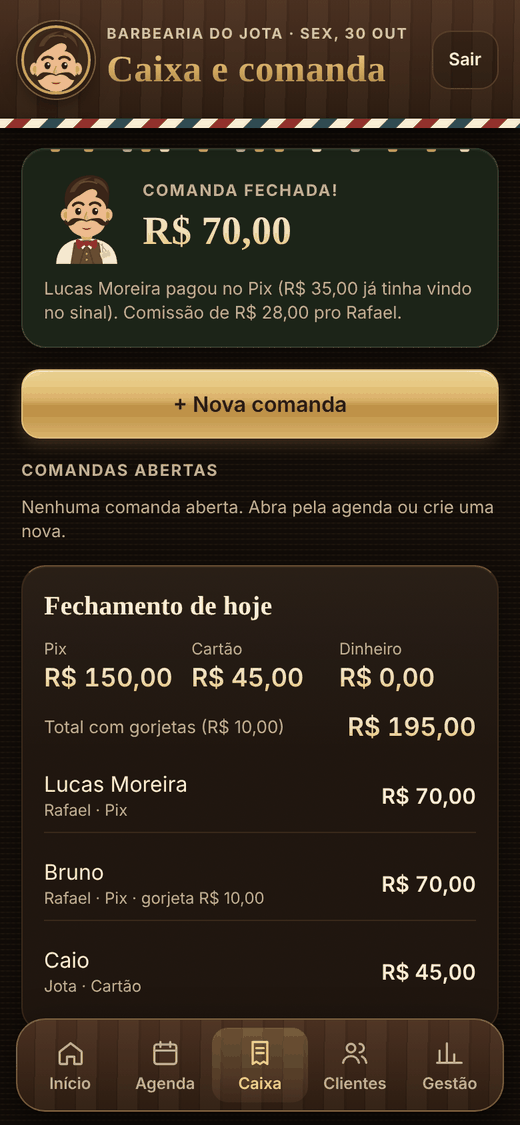
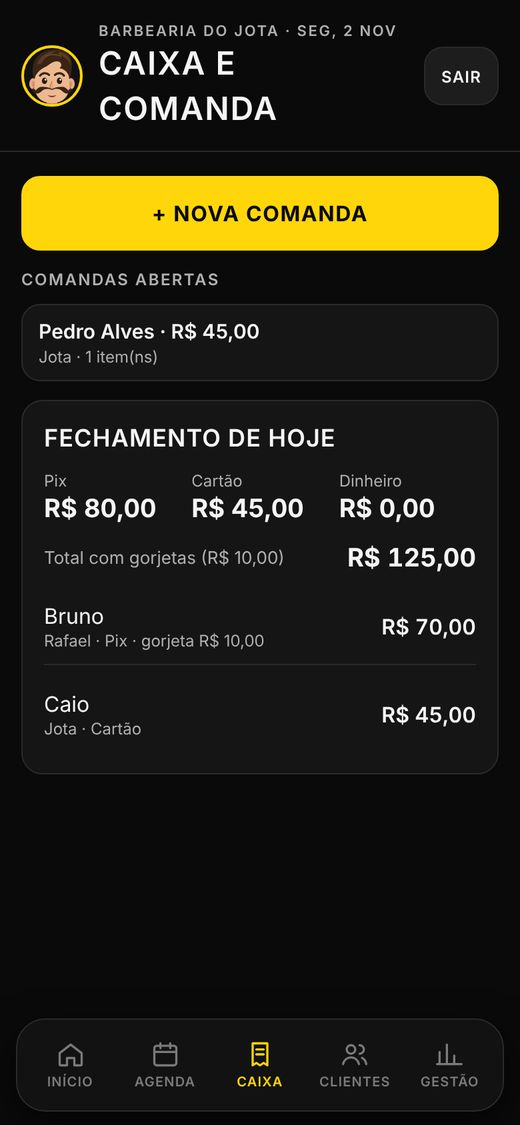
README atualizado: Degradê, design v2, fotos novas das telas e tudo que mudou
- Banner e as 12 fotos das telas refeitos no design novo
- Seções novas: Visual, Entrada, Termos e privacidade, Histórico de mudanças
- Vários serviços, lembretes, fotos dos trabalhos, tema claro, manter conectado, barbeiro só com a própria agenda
- Sai Estoque e Despesas; próximos passos atualizados

Claude-Session: https://claude.ai/code/session_017CedPEMr8KfJc6Ej25PCfh

diff --git a/README.md b/README.md
@@ -3,16 +3,16 @@
 </p>
 
 <p align="center">
-  <img alt="Aplicativo web instalável" src="https://img.shields.io/badge/app-instal%C3%A1vel%20no%20celular-C9A35B?style=flat-square">
-  <img alt="Pagamento Pix" src="https://img.shields.io/badge/sinal-Pix-32BCAD?style=flat-square">
+  <img alt="Aplicativo web instalável" src="https://img.shields.io/badge/app-instal%C3%A1vel%20no%20celular-FFD60A?style=flat-square&labelColor=0A0A0A">
+  <img alt="Pix e cartão" src="https://img.shields.io/badge/sinal-Pix%20e%20cart%C3%A3o-32BCAD?style=flat-square">
   <img alt="Banco de dados Supabase" src="https://img.shields.io/badge/dados-Supabase-3ECF8E?style=flat-square">
   <img alt="Hospedagem Vercel" src="https://img.shields.io/badge/no%20ar-Vercel-111111?style=flat-square">
   <img alt="Feito no Brasil" src="https://img.shields.io/badge/feito%20no-Brasil-009C3B?style=flat-square">
 </p>
 
 <p align="center">
-  <b>O sistema completo pra barbearia:</b> o cliente agenda pelo link, paga o sinal no Pix,<br>
-  o barbeiro atende com a ficha na mão e o dono vê quanto entrou, quanto saiu e quanto foi pra equipe.
+  <b>O sistema completo pra barbearia:</b> o cliente agenda pelo link e paga o sinal no Pix ou no cartão,<br>
+  o barbeiro atende com a ficha na mão e o dono vê quanto entrou e quanto foi pra equipe.
 </p>
 
 ---
@@ -20,11 +20,13 @@
 ## Sumário
 
 - [O que é](#o-que-é)
+- [Visual](#visual)
 - [Telas](#telas)
 - [Funcionalidades](#funcionalidades)
 - [Como funciona](#como-funciona)
 - [Segurança e privacidade](#segurança-e-privacidade)
 - [Tecnologia](#tecnologia)
+- [Histórico de mudanças](#histórico-de-mudanças)
 - [Próximos passos](#próximos-passos)
 
 ---
@@ -38,10 +40,22 @@ São três aplicativos em um:
 | | Pra quem | O que faz |
 |---|---|---|
 | **Painel da barbearia** | Dono e barbeiros | Agenda, caixa, comissões, clientes, horários e configurações |
-| **Página de agendamento** | Cliente final | Escolhe serviço, barbeiro, dia e hora, e paga o sinal no Pix ou no cartão. Sem precisar de conta |
-| **Painel do administrador** | Dono do sistema | Todas as barbearias assinantes, mensalidades, testes grátis e bloqueios |
+| **Página de agendamento** | Cliente final | Escolhe um ou mais serviços, barbeiro, dia e hora, e paga o sinal no Pix ou no cartão. Sem precisar de conta |
+| **Painel do administrador** | Dono do sistema | Todas as barbearias assinantes, planos, mensalidades, testes grátis e bloqueios |
 
-E quem recebe o cliente é o **mascote**, um barbeiro bigodudo que dá bom dia, pisca, mexe o bigode e comemora cada comanda fechada.
+E quem recebe o cliente é o **mascote**, um barbeiro bigodudo que dá boa noite, pisca, mexe o bigode e comemora cada comanda fechada.
+
+---
+
+## Visual
+
+- **Nome e marca:** Degradê. Na tela de entrada, o nome sai do branco pro amarelo, como um degradê de verdade, com a **régua dos pentes** embaixo (0, ½, 1, 2, 3, 4).
+- **Ícone do app:** barras arredondadas que afinam e apagam da esquerda pra direita, em amarelo sobre preto.
+- **Cores:** fundo preto (#0A0A0A) com um destaque só, que é a cor da barbearia (amarelo #FFD60A por padrão, ou uma das 7 cores da paleta). O texto em cima do destaque fica preto ou branco sozinho, pra sempre dar leitura.
+- **Letra:** Bai Jamjuree. Títulos e botões em maiúsculas, nomes de clientes e serviços em letra normal.
+- **Versão clara do painel:** cada pessoa escolhe Escuro ou Claro em **Aparência do app**, e vale só pro celular dela.
+- **Página do cliente:** estilo escuro ou claro, à escolha do dono.
+- **Navegação:** abas fixas embaixo, num cartão flutuante, com alvos de toque grandes.
 
 ---
 
@@ -49,24 +63,24 @@ E quem recebe o cliente é o **mascote**, um barbeiro bigodudo que dá bom dia, 
 
 <table>
   <tr>
-    <td align="center"><img src="docs/telas/02-inicio.png" width="230" alt="Tela de Início"><br><sub><b>Início</b> · resumo do dia</sub></td>
-    <td align="center"><img src="docs/telas/03-agenda.png" width="230" alt="Agenda"><br><sub><b>Agenda</b> · horários e sinais</sub></td>
-    <td align="center"><img src="docs/telas/04-comanda.png" width="230" alt="Comanda"><br><sub><b>Comanda</b> · com o sinal descontado</sub></td>
+    <td align="center"><img src="docs/telas/01-login.png" width="230" alt="Entrada"><br><sub><b>Entrada</b> · régua dos pentes e manter conectado</sub></td>
+    <td align="center"><img src="docs/telas/02-inicio.png" width="230" alt="Início"><br><sub><b>Início</b> · faturado, na cadeira e próximos</sub></td>
+    <td align="center"><img src="docs/telas/03-agenda.png" width="230" alt="Agenda"><br><sub><b>Agenda</b> · semana, linha do agora e encaixe</sub></td>
   </tr>
   <tr>
+    <td align="center"><img src="docs/telas/04-comanda.png" width="230" alt="Comanda"><br><sub><b>Comanda</b> · um item por serviço</sub></td>
     <td align="center"><img src="docs/telas/05-caixa.png" width="230" alt="Caixa"><br><sub><b>Caixa</b> · fechamento do dia</sub></td>
     <td align="center"><img src="docs/telas/06-horarios.png" width="230" alt="Horários"><br><sub><b>Horários</b> · dias, almoço e folgas</sub></td>
-    <td align="center"><img src="docs/telas/07-pagamentos.png" width="230" alt="Pagamentos"><br><sub><b>Pagamentos</b> · chave Pix e sinal</sub></td>
   </tr>
   <tr>
-    <td align="center"><img src="docs/telas/10-agendar.png" width="230" alt="Página de agendamento"><br><sub><b>Cliente agenda</b> pelo link</sub></td>
+    <td align="center"><img src="docs/telas/07-pagamentos.png" width="230" alt="Pagamentos"><br><sub><b>Pagamentos</b> · Mercado Pago, Pix e sinal</sub></td>
+    <td align="center"><img src="docs/telas/08-servicos.png" width="230" alt="Serviços"><br><sub><b>Serviços</b> · quanto cada barbeiro recebe</sub></td>
+    <td align="center"><img src="docs/telas/09-barbeiro.png" width="230" alt="App do barbeiro"><br><sub><b>App do barbeiro</b> · só a agenda dele</sub></td>
+  </tr>
+  <tr>
+    <td align="center"><img src="docs/telas/10-agendar.png" width="230" alt="Página de agendamento"><br><sub><b>Cliente agenda</b> · vários serviços</sub></td>
     <td align="center"><img src="docs/telas/11-pix.png" width="230" alt="Pagamento do sinal"><br><sub><b>Sinal no Pix</b> · copia e cola</sub></td>
-    <td align="center"><img src="docs/telas/09-barbeiro.png" width="230" alt="App do barbeiro"><br><sub><b>App do barbeiro</b> · agenda e ganhos</sub></td>
-  </tr>
-  <tr>
-    <td align="center"><img src="docs/telas/08-servicos.png" width="230" alt="Serviços"><br><sub><b>Serviços</b> · quanto cada um recebe</sub></td>
     <td align="center"><img src="docs/telas/12-admin.png" width="230" alt="Painel do administrador"><br><sub><b>Administrador</b> · assinaturas</sub></td>
-    <td align="center"><img src="docs/telas/01-login.png" width="230" alt="Login"><br><sub><b>Entrada</b> · com o mascote</sub></td>
   </tr>
 </table>
 
@@ -74,25 +88,32 @@ E quem recebe o cliente é o **mascote**, um barbeiro bigodudo que dá bom dia, 
 
 ## Funcionalidades
 
+### Entrada
+- Login com e-mail e senha, **Manter conectado neste aparelho** (marcado por padrão; desmarcado, sai ao fechar o navegador) e "Esqueci a senha".
+- O navegador oferece salvar a senha logo ao entrar, e não depois, no meio do uso (Chrome, Android e iPhone).
+- Links pros termos de uso e a política de privacidade.
+
 ### Início
-- Saudação do mascote com o resumo do dia: quantos foram atendidos, quantos estão na fila e quantos horários estão livres.
-- **Agora**: quem está na cadeira e quem é o próximo, com o botão da comanda ali mesmo.
-- **Link de agendamento** com os botões Copiar, Compartilhar e QR code, e quantos agendamentos chegaram por ele hoje.
-- Dinheiro de hoje (entrou, saiu e foi pra equipe) e o mês (projeção, faturado, ticket médio, clientes e frequência de volta).
-- **Hora do extra**: mostra o próximo horário livre e já entrega a mensagem pronta pra mandar no WhatsApp.
-- **Quem parou de vir**: clientes que passaram do tempo normal de volta.
-- Aviso de mensalidade perto de vencer.
+- Cartão do **faturado hoje**, com atendidos, fila e horários livres.
+- **Na cadeira**: quem está sendo atendido, com o botão **Fechar comanda** ali mesmo.
+- **Próximos** do dia, com a situação do sinal.
+- **Lembretes de amanhã**: os clientes do dia seguinte, com um toque pra abrir o WhatsApp com a mensagem pronta. O app marca o que já foi enviado.
+- **Link de agendamento** com Copiar, Compartilhar e QR code.
+- O mês: projeção, meta, ticket médio, clientes e frequência de volta.
+- **Quem parou de vir**, sinais pra conferir e pagamentos pra devolver.
 
 ### Agenda
-- Visão por dia e por barbeiro, com o resumo do expediente (horário, almoço, folgas e bloqueios).
-- Abrir comanda, marcar falta, cancelar e mandar **lembrete no WhatsApp** com a mensagem pronta.
+- Faixa da semana com os dias que têm horário marcado, linha do **agora** e botão **+** pra agendar no dia.
+- Filtro por barbeiro (pro dono) e resumo do expediente: horário, almoço, folgas e bloqueios.
+- **Encaixar**: mostra o próximo horário livre e já abre o agendamento nele.
+- Abrir comanda, marcar falta, cancelar e mandar **lembrete no WhatsApp**.
 - Reservas **aguardando sinal** com o prazo, e o botão "Sinal recebido" pra confirmar.
-- Agendamento pelo balcão, que respeita as mesmas regras de horário da página do cliente.
+- Agendamento pelo balcão, com as mesmas regras de horário da página do cliente.
 
 ### Caixa e comanda
-- Comanda com serviços e produtos, pagamento em Pix, cartão ou dinheiro, e gorjeta separada pro barbeiro.
+- Comanda com os serviços (um item por serviço quando o cliente marcou mais de um), pagamento em Pix, cartão ou dinheiro, e gorjeta separada pro barbeiro.
 - **Comissão calculada sozinha**, sempre em cima do valor cheio do serviço.
-- O sinal pago no Pix já aparece descontado, mostrando só o que falta receber.
+- O sinal pago já aparece descontado, mostrando só o que falta receber.
 - Fechamento do dia por forma de pagamento.
 - O mascote comemora com confete quando a comanda fecha.
 
@@ -108,38 +129,34 @@ E quem recebe o cliente é o **mascote**, um barbeiro bigodudo que dá bom dia, 
 - **Bloqueio** de um dia inteiro ou só de um período, pra barbearia toda ou pra um barbeiro (feriado, médico, compromisso).
 - Tudo vale ao mesmo tempo no painel, na página do cliente e no servidor.
 
-### Pagamentos e sinal no Pix
+### Pagamentos e sinal
 - Formas de pagamento aceitas pela barbearia.
 - Chave Pix da barbearia, com teste de R$ 1,00 pra conferir o nome no app do banco.
-- **Sinal pra agendar**: o cliente paga 20%, 30%, 50% ou 100% do serviço no Pix pra garantir o horário.
+- **Sinal pra agendar**: o cliente paga 20%, 30%, 50% ou 100% do total pra garantir o horário. Com vários serviços, o sinal sai da soma.
 - O horário fica reservado enquanto o cliente paga (15, 30 ou 60 minutos) e é liberado sozinho se o prazo acabar.
-- O dinheiro cai direto na conta da barbearia, sem intermediário e sem taxa.
-
-### Cartão de crédito e Pix automático (Mercado Pago)
-- Cada barbearia **conecta a própria conta Mercado Pago** com um botão, sem copiar chave nenhuma.
-- O cliente paga o sinal (ou o valor todo, com 100%) **no cartão de crédito ou no Pix** na hora de agendar.
-- **Confirmação automática**: pagamento aprovado e o horário fica marcado sozinho, sem o dono conferir nada.
-- Parcelamento do sinal em até 12x, à escolha do dono. O dinheiro cai na conta Mercado Pago da barbearia.
-- Os dados do cartão vão direto pro Mercado Pago e nunca passam pelo app.
-- Se um pagamento chegar depois de a reserva cair, o painel avisa pra devolver ou remarcar.
-- Devolução feita pelo Mercado Pago aparece sozinha na agenda ("sinal devolvido").
+- **Mercado Pago**: cada barbearia conecta a própria conta com um botão. O cliente paga no **cartão de crédito** (até 12x, à escolha do dono) ou no **Pix automático**, e o horário confirma sozinho.
+- O dinheiro cai direto na conta da barbearia, sem comissão do app. Os dados do cartão vão direto pro Mercado Pago.
+- Mensagens claras quando o cartão é recusado (saldo, dados errados, banco não autorizou).
+- Pagamento que chega depois de a reserva cair: o painel avisa pra devolver ou remarcar. Devolução feita pelo Mercado Pago aparece sozinha na agenda.
 
 ### Página de agendamento do cliente
-- Sem cadastro e sem senha: serviço, barbeiro (ou "qualquer um"), dia e horário em poucos toques.
-- Mostra só horários realmente livres, e marca os dias fechados.
-- QR code e Pix "copia e cola" do sinal, com contagem regressiva, botão pra mandar o comprovante no WhatsApp e confirmação automática na tela quando a barbearia confirma o Pix.
+- Sem cadastro e sem senha, em passos: **Escolha os serviços** (pode marcar mais de um, como corte + sobrancelha), barbeiro, dia e horário, e dados.
+- Tempo e preço dos serviços se somam, e só aparecem horários em que cabe tudo.
+- **Fotos dos trabalhos** de cada barbeiro na hora de escolher (até 30 por barbeiro), com galeria em tela cheia.
+- QR code e Pix "copia e cola" do sinal, com contagem regressiva e confirmação automática na tela.
+- **Lembrar no meu celular**: salva o horário na agenda do cliente, com aviso um dia antes e uma hora antes (iPhone) ou no Google Agenda (Android).
 - Logo, cor, mensagem de boas-vindas, endereço com mapa, Instagram e WhatsApp da barbearia.
-- Estilo claro ou escuro, à escolha do dono.
 
 ### Equipe e comissões
-- Comissão de cada barbeiro em serviços e em produtos, com exemplo de quanto ele recebe.
+- Comissão de cada barbeiro, com exemplo de quanto ele recebe em cada serviço.
 - Vales (adiantamentos) e gorjetas, com o valor a receber no fim do mês.
 - Convite por e-mail: cada pessoa entra com a própria conta e é ligada a um barbeiro da agenda.
-- **Permissões**: o barbeiro vê a agenda, os clientes e só os próprios ganhos e comandas. O caixa da barbearia, as despesas e os ganhos dos colegas ficam com o dono.
+- **Permissões**: o barbeiro vê **só a própria agenda**, os clientes, e só as próprias comandas e ganhos. O caixa da barbearia e os ganhos dos colegas ficam com o dono.
 
 ### App do barbeiro
-- Agenda do dia com a **ficha de cada cliente**.
+- Agenda do dia com a **ficha de cada cliente** e os lembretes de amanhã dele.
 - Quanto já ganhou hoje e no mês, com comissão, gorjetas e vales.
+- Fotos dos próprios trabalhos.
 - Chamar pra cadeira e fechar a comanda dos próprios clientes.
 
 ### Avisos de agendamento
@@ -148,19 +165,23 @@ E quem recebe o cliente é o **mascote**, um barbeiro bigodudo que dá bom dia, 
 - **Aviso com o app fechado** (notificação push): o dono recebe tudo, e cada barbeiro recebe só os horários dele. Também avisa quando o sinal é pago online.
 
 ### Gestão
+- Abas: Barbearia, Horários, Pagamentos, Equipe e Serviços.
+- Perfil da barbearia: logo, nome, cor, estilo da página do cliente, mensagem, endereço, redes e meta do mês.
 - Serviços com preço e duração.
-- Perfil da barbearia: logo, nome, cor, mensagem, endereço e redes.
-- Botão Sair no cabeçalho e menu da conta ao tocar no mascote.
+- Aparência do app (escuro ou claro).
 
 ### Painel do administrador (dono do sistema)
 - Todas as barbearias, com o dono, o uso dos últimos 30 dias e a situação: em teste, em dia, vencendo ou bloqueada.
 - Receita mensal prevista e recebida no mês.
 - Registrar pagamento, editar mensalidade e vencimento, desativar e reativar, com histórico de pagamentos.
-- **Teste grátis** pra toda barbearia nova (10 dias, configurável).
-- **Bloqueio automático** depois da tolerância (5 dias, configurável) de mensalidade vencida, sem apagar nenhum dado. O acesso volta na hora em que o pagamento é registrado.
-- **Planos** com preço (ex.: Básico e Completo). A barbearia nova já entra no primeiro plano.
+- **Teste grátis** pra toda barbearia nova e **tolerância** de mensalidade vencida, configuráveis. Depois da tolerância, bloqueio automático sem apagar nenhum dado.
+- **Planos** com preço (ex.: Mensal, Trimestral e Anual). A barbearia nova já entra no primeiro plano.
 - **Cobrança pelo WhatsApp**: monta a mensagem com o Pix copia e cola da mensalidade e abre o WhatsApp da barbearia.
-- **Excluir barbearia**, liberando o e-mail pra um novo cadastro.
+- **Excluir barbearia**, apagando também as fotos e liberando o e-mail pra um novo cadastro.
+
+### Termos e privacidade
+- Páginas de **termos de uso** e **política de privacidade** (LGPD), ligadas no login, no cadastro e na hora de agendar.
+- Contato de suporte configurável em `config.js` (`suporte`).
 
 ---
 
@@ -169,25 +190,28 @@ E quem recebe o cliente é o **mascote**, um barbeiro bigodudo que dá bom dia, 
 ```mermaid
 flowchart LR
     C["Cliente<br>página de agendamento"] -->|agenda e paga o sinal| S[("Supabase<br>banco de dados")]
+    C -->|cartão ou Pix automático| M["Mercado Pago<br>conta da barbearia"]
+    M -->|pagamento aprovado| S
     D["Dono e barbeiros<br>painel da barbearia"] <-->|agenda, caixa, clientes| S
-    A["Administrador<br>painel do sistema"] -->|mensalidades e bloqueios| S
-    S -->|atualiza na hora| D
-    C -.->|Pix direto pra barbearia| B["Conta da barbearia"]
+    A["Administrador<br>painel do sistema"] -->|planos, mensalidades e bloqueios| S
+    S -->|atualiza na hora e manda aviso no celular| D
 ```
 
 - Tudo acontece em tempo real: o que o cliente marca aparece na hora na agenda, e o que um barbeiro fecha no caixa aparece no celular do dono.
-- O servidor confere cada agendamento: horário livre, dentro do expediente, fora do almoço, das folgas e dos bloqueios, e calcula o valor do sinal ele mesmo.
+- O servidor confere cada agendamento: horário livre, dentro do expediente, fora do almoço, das folgas e dos bloqueios, soma o tempo e o preço dos serviços e calcula o sinal ele mesmo.
+- Uma trava no banco impede dois clientes de pegarem o mesmo horário, mesmo que marquem no mesmo segundo.
 
 ---
 
 ## Segurança e privacidade
 
 - **Cada barbearia só acessa os próprios dados**, com regras no banco de dados, não só escondendo na tela.
-- O **barbeiro** não consegue ler nem alterar comandas de outro barbeiro, despesas ou vales.
-- O **cliente**, sem login, só vê o perfil público da barbearia e quais horários estão ocupados (sem nomes). Comissões, custos e dados de outros clientes nunca aparecem pra ele.
+- O **barbeiro** só lê, cria e edita os agendamentos, comandas e vales dele. Não vê a agenda nem os ganhos dos colegas.
+- O **cliente**, sem login, só vê o perfil público da barbearia e quais horários estão ocupados (sem nomes). Comissões e dados de outros clientes nunca aparecem pra ele.
 - Cada WhatsApp só pode segurar uma reserva aguardando sinal por vez, pra ninguém travar a agenda.
 - Só o administrador muda vencimento, mensalidade e bloqueio de uma barbearia.
 - As chaves do Mercado Pago de cada barbearia ficam numa tabela que nenhum navegador consegue ler. O valor cobrado vem sempre do servidor, e um pagamento só confirma o horário depois de conferido direto no Mercado Pago.
+- As fotos dos trabalhos ficam numa pasta por barbearia e por barbeiro, e só quem é da equipe consegue enviar ou apagar.
 
 ---
 
@@ -195,11 +219,12 @@ flowchart LR
 
 | Parte | O que usa |
 |---|---|
-| Telas | HTML, CSS e JavaScript puros, sem framework. Instalável no celular (PWA) |
-| Banco de dados, login e tempo real | [Supabase](https://supabase.com) (Postgres com regras de acesso por linha) |
+| Telas | HTML, CSS e JavaScript puros, sem framework. Instalável no celular (PWA). Letra Bai Jamjuree |
+| Banco de dados, login, tempo real e fotos | [Supabase](https://supabase.com) (Postgres com regras de acesso por linha, Storage) |
 | Hospedagem | [Vercel](https://vercel.com) |
 | Pix | Código "copia e cola" no padrão do Banco Central, gerado no próprio app (`pix.js`) |
 | Cartão e Pix automático | [Mercado Pago](https://www.mercadopago.com.br/developers) (OAuth, Card Payment Brick e API de pagamentos) em Supabase Edge Functions |
+| Avisos com o app fechado | Web Push (VAPID) numa Supabase Edge Function |
 | QR codes | qrcodejs |
 | Mascote e ícones | Desenhados em SVG |
 
@@ -207,14 +232,32 @@ flowchart LR
 ├── index.html          Painel da barbearia (dono e barbeiros)
 ├── agendar.html        Página de agendamento do cliente
 ├── admin.html          Painel do administrador do sistema
+├── termos.html         Termos de uso
+├── privacidade.html    Política de privacidade (legal.css, legal.js)
 ├── pix.js              Gerador do Pix "copia e cola"
-├── config.js           Endereço e chave pública do Supabase
+├── config.js           Endereço e chave pública do Supabase, contato de suporte
 ├── supabase/schema.sql Banco de dados, regras de acesso e funções
 ├── supabase/functions/ Mercado Pago (mp-oauth, mp-pagar, mp-webhook) e avisos no celular (push-enviar)
 ├── sw.js               Recebe os avisos com o app fechado
 ├── manifest.webmanifest, *.png   Nome e ícone do app no celular
-└── docs/               Imagens deste README e guia técnico
+└── docs/               Imagens deste README e guias técnicos
 ```
+
+---
+
+## Histórico de mudanças
+
+| PR | O que mudou |
+|---|---|
+| #3 | Mercado Pago com um botão: cartão e Pix automático, sem comissão do app |
+| #4 | Admin exclui barbearia e libera o e-mail |
+| #5 | Mensagens de cartão recusado, devoluções, aviso com o app fechado, configurações do admin (planos, teste, tolerância, Pix) e cobrança no WhatsApp |
+| #6 | Trava no banco contra dois agendamentos no mesmo horário |
+| #7 | Fotos dos trabalhos dos barbeiros na página de agendamento |
+| #8 | Checkup: extensão de rede no lugar certo, permissões e fotos apagadas ao excluir barbearia |
+| #9 | Design v2 (preto com a cor da barbearia), agendamento em passos, vários serviços por horário e ícone novo |
+| #10 | Nome **Degradê**, régua dos pentes, ícone em degradê; sai Estoque e Despesas |
+| #11 | Lembretes de amanhã e na agenda do celular, termos e privacidade, versão clara do painel, manter conectado, aviso de senha no lugar certo e barbeiro vendo só a própria agenda |
 
 ---
 
@@ -222,9 +265,14 @@ flowchart LR
 
 - [x] Cartão de crédito e Pix automático pelo Mercado Pago, com confirmação automática do pagamento
 - [x] Aviso de agendamento com o app fechado (notificação push)
-- [ ] Lembrete automático no WhatsApp pela API oficial
-- [ ] Clube de assinatura pros clientes da barbearia
 - [x] Cobrança das mensalidades pelo WhatsApp com Pix, e planos com preço automático no admin
+- [x] Vários serviços no mesmo agendamento
+- [x] Lembrete do horário (WhatsApp com um toque e agenda do celular do cliente)
+- [ ] Envio de e-mail próprio (cadastro e senha nova) com domínio do Degradê
+- [ ] Endereço próprio do app (sair do jsbarberapp.vercel.app)
+- [ ] Lembrete automático no WhatsApp pela API oficial
+- [ ] Cartão fidelidade e clube de assinatura pros clientes da barbearia
+- [ ] Agendamento de vários serviços pelo balcão
 - [ ] Emissão de nota fiscal (NFS-e)
 
 ---

diff --git a/docs/INSTALACAO.md b/docs/INSTALACAO.md
@@ -76,7 +76,7 @@ Sem isso, os links de confirmação de e-mail e de "esqueci a senha" levam pro l
    - **Pagamentos**: formas aceitas, chave Pix e o **sinal pra agendar** (veja abaixo).
    - **Serviços**: preços e duração.
    - **Equipe**: barbeiros (aparecem na agenda) e **Acesso ao app**: convide pelo e-mail e diga qual barbeiro da agenda a pessoa é.
-     - **Barbeiro** vê a agenda (mexe só nos horários dele), os clientes e só as próprias comandas e ganhos. Não vê o caixa da barbearia, as despesas nem os ganhos dos colegas. Isso é travado no banco, não só escondido na tela.
+     - **Barbeiro** vê só a própria agenda, os clientes e só as próprias comandas e ganhos. Não vê a agenda, o caixa da barbearia nem os ganhos dos colegas. Isso é travado no banco, não só escondido na tela.
      - **Sócio** tem o mesmo acesso do dono.
      - Quem já tinha acesso antes desta versão aparece na lista sem barbeiro ligado: escolha em "Na agenda é".
    - **Avisos de agendamento** (em Equipe, ou em Conta pro barbeiro): som, vibração e notificação quando um cliente marca pelo link. Toque em "Ativar notificação neste aparelho" em cada celular. Funciona com o app aberto ou em segundo plano; com o app totalmente fechado, ainda não.
@@ -127,7 +127,7 @@ O endereço é o do seu site com `/admin.html` no final (ex.: `https://seusite.n
 - O dono da barbearia não consegue mudar vencimento, mensalidade nem se reativar: isso é travado no banco.
 
 ### Pelo Supabase (se precisar ir mais fundo)
-No **Table Editor**: `barbearias` (cadastro e assinatura), `pagamentos` (histórico), `membros` (quem acessa cada barbearia), `registros` (agenda, comandas, clientes, estoque, despesas e vales).
+No **Table Editor**: `barbearias` (cadastro e assinatura), `pagamentos` (histórico), `membros` (quem acessa cada barbearia), `registros` (agenda, comandas, clientes e vales; produtos e despesas antigos continuam guardados ali).
 
 **Backup:** o plano grátis não faz backup automático. Antes de ter clientes pagando, vale migrar pro plano pago do Supabase (tem backup diário). Confira os valores atuais em supabase.com/pricing. No plano grátis o projeto também é pausado depois de um período sem uso; é só reativar no painel.
 
